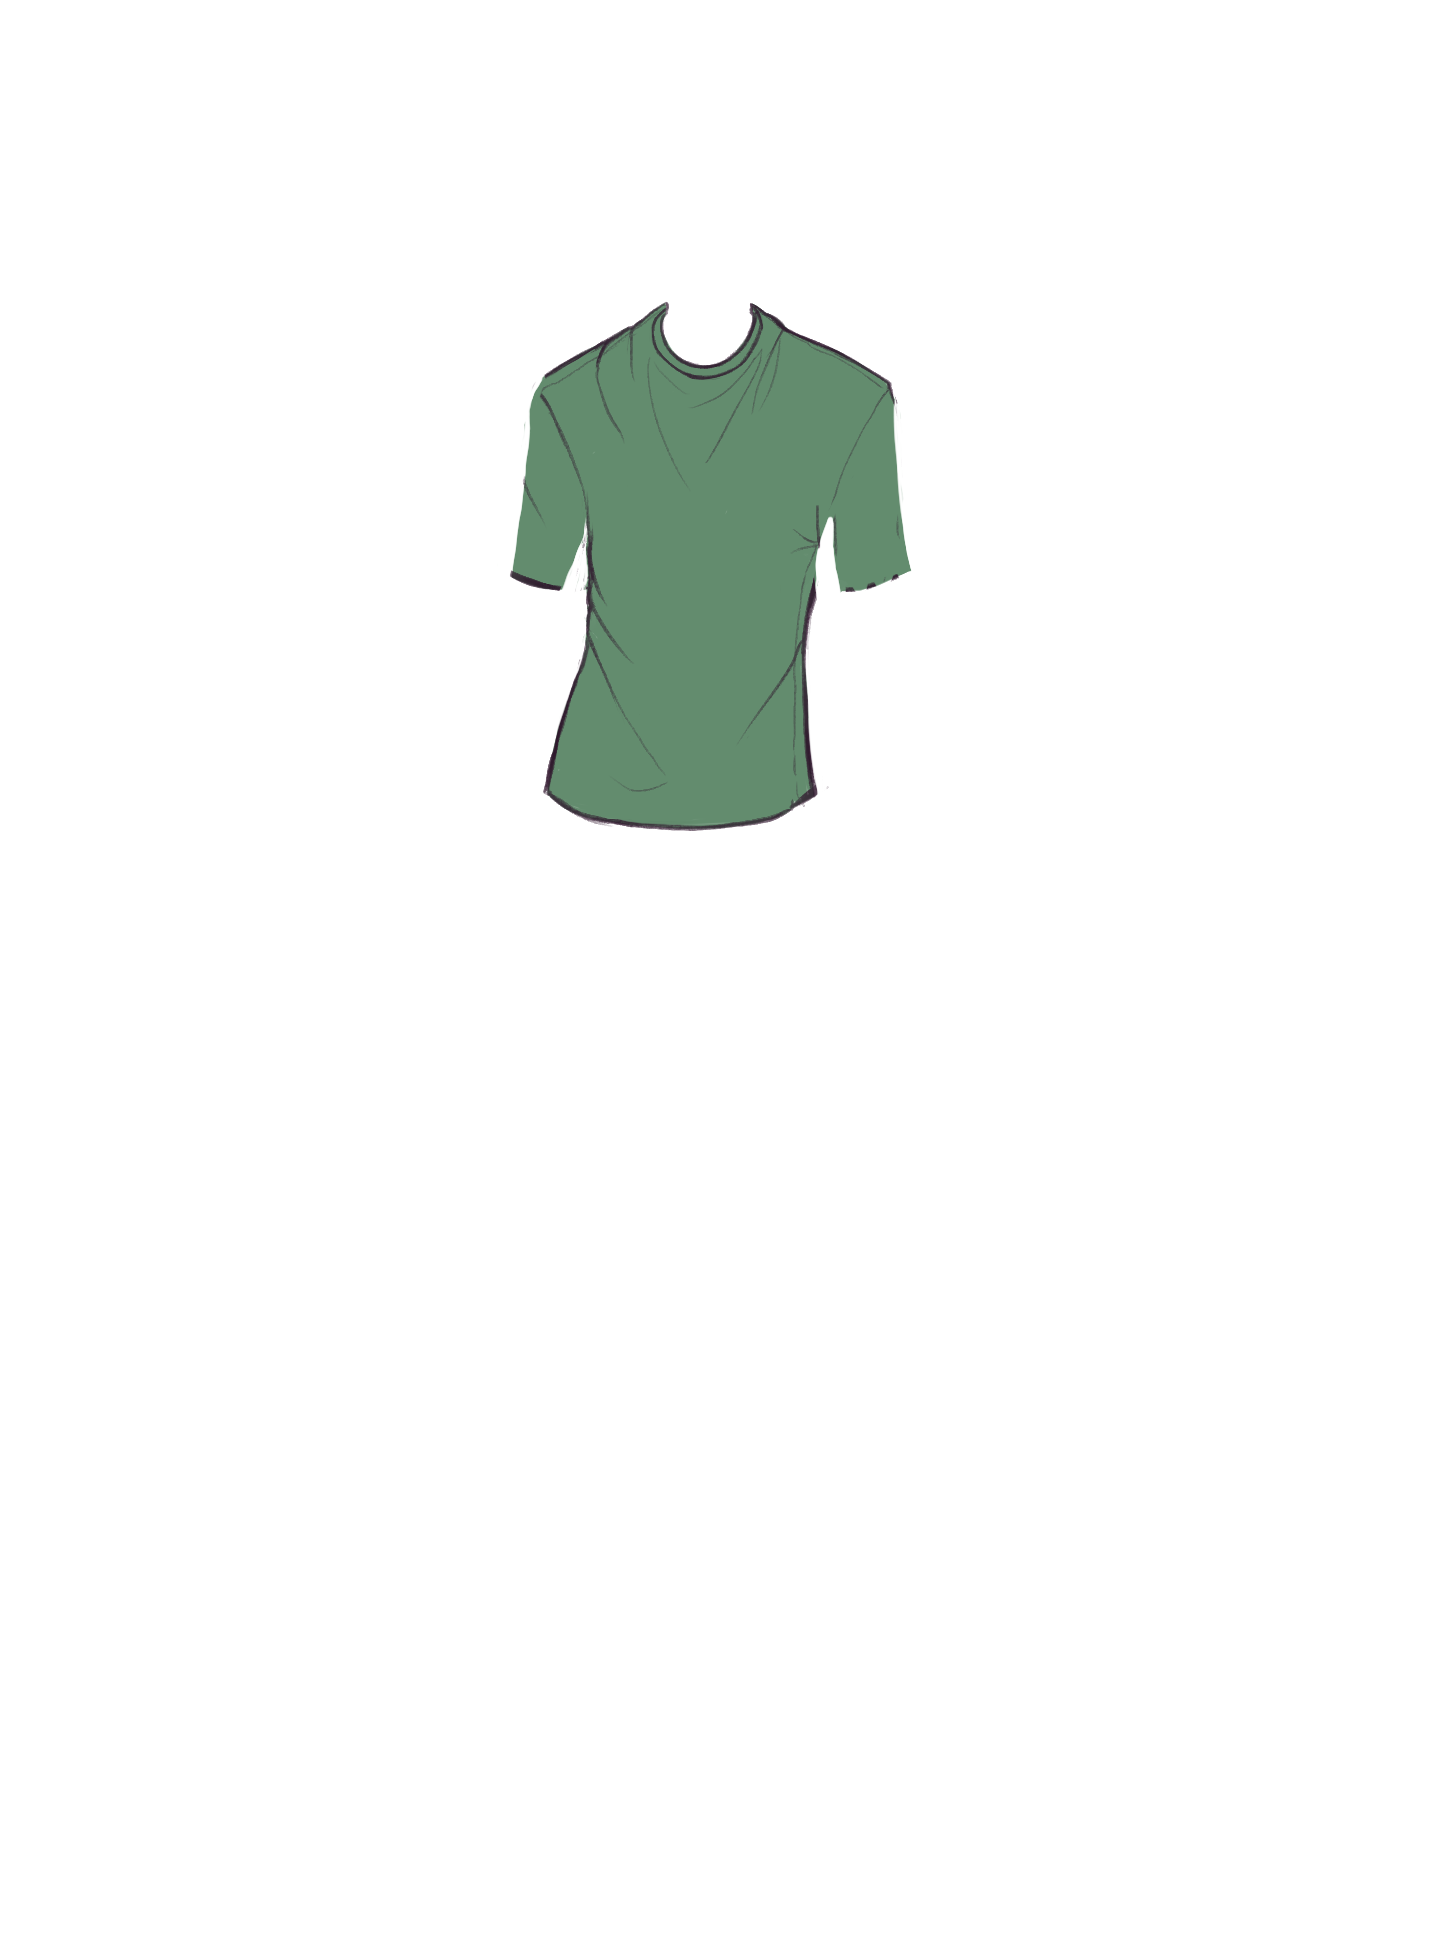
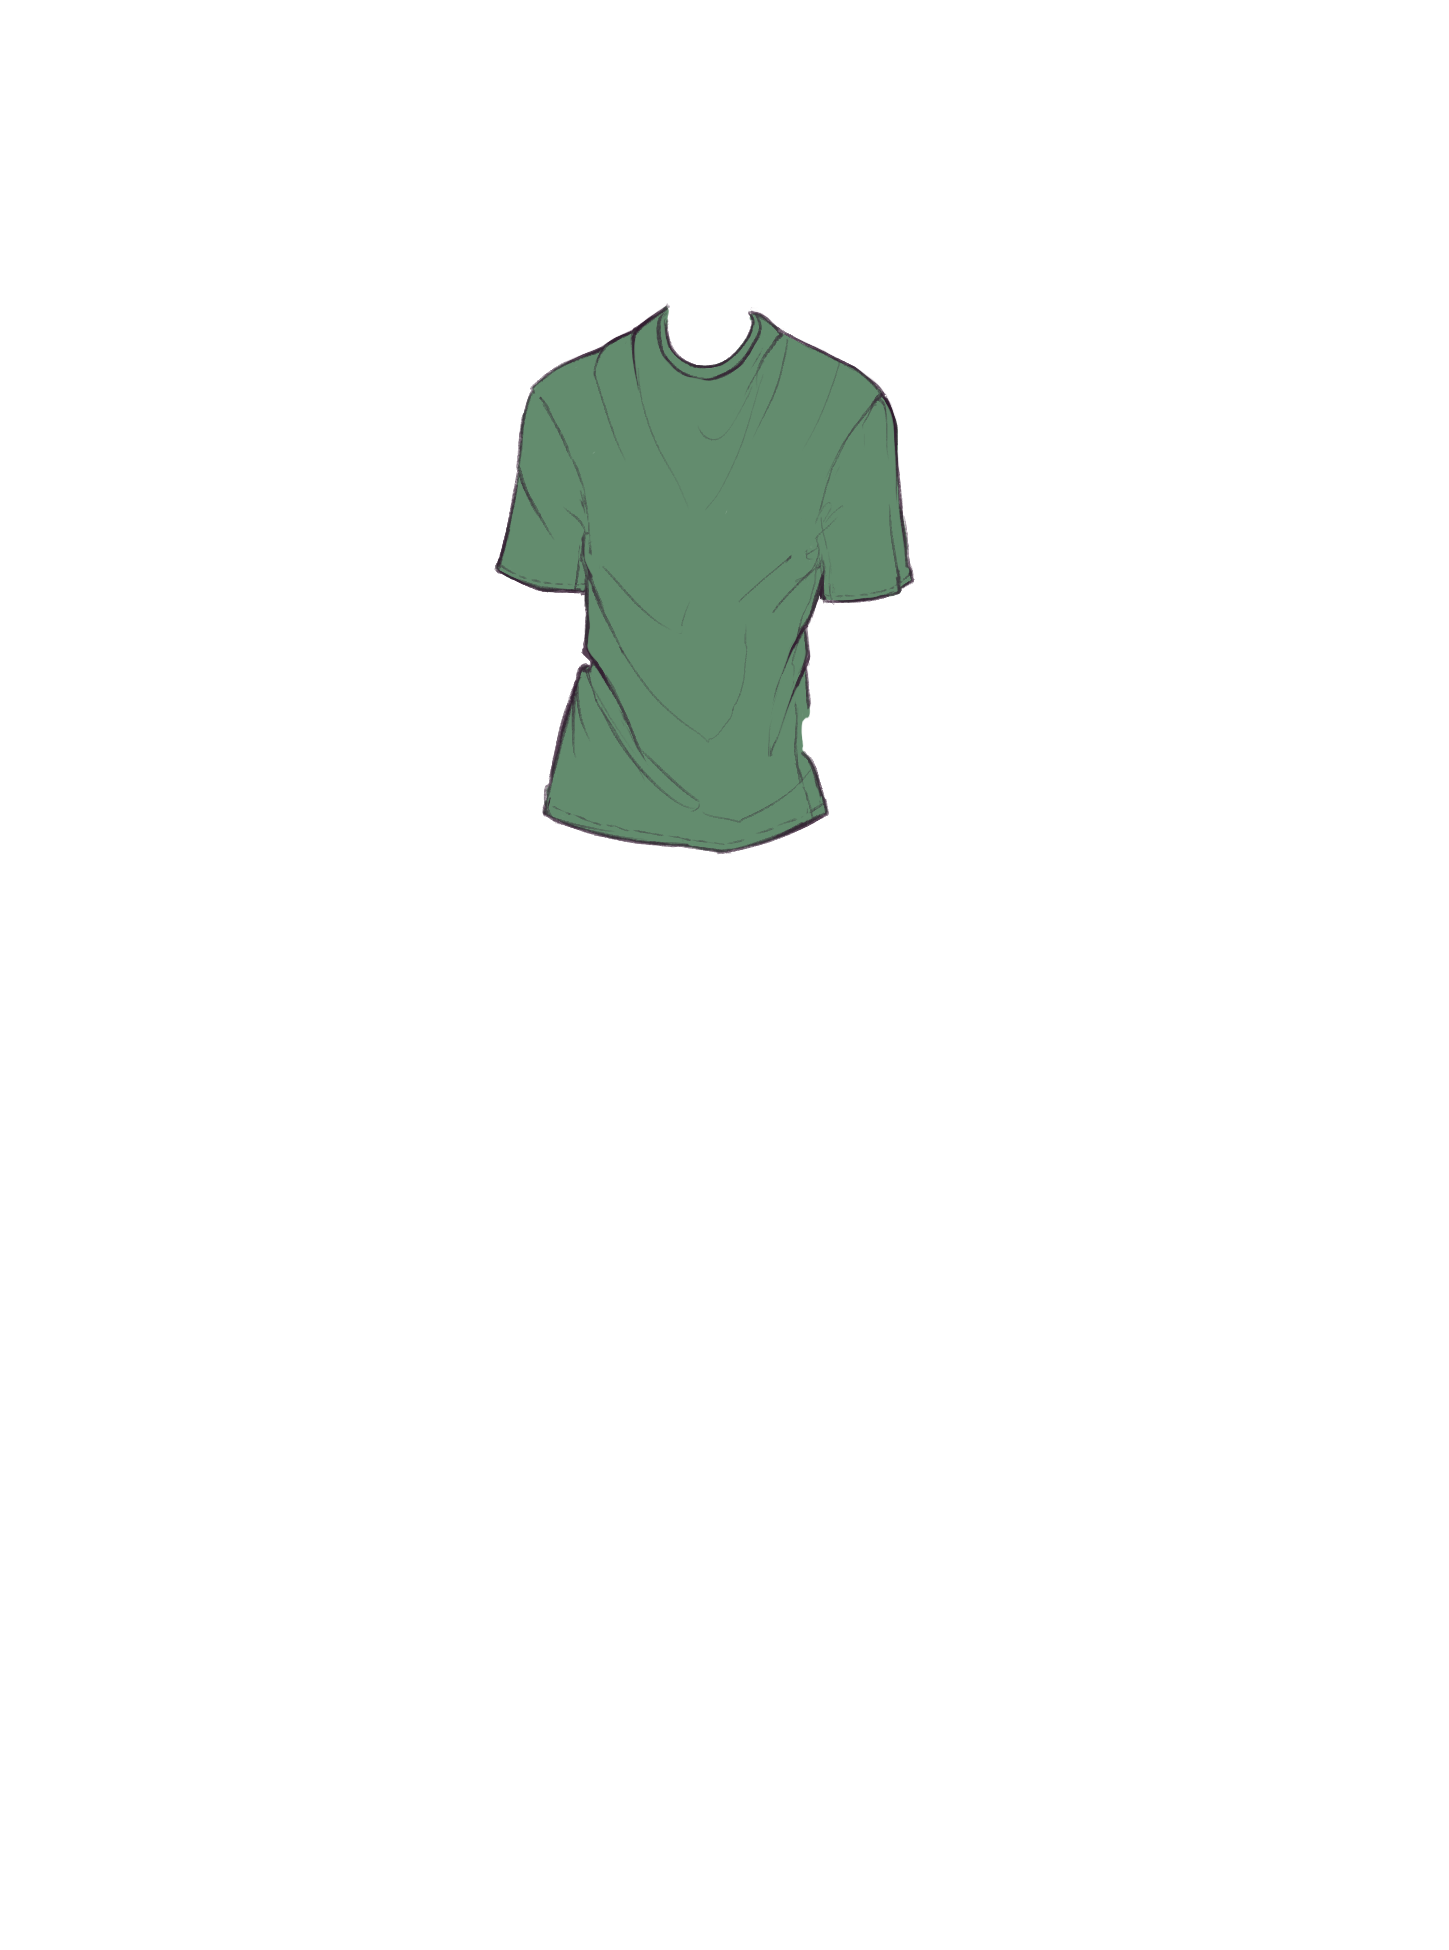
tshirt fix

diff --git a/src/config/characters/bill.ts b/src/config/characters/bill.ts
@@ -179,7 +179,10 @@ export const BillWeasley: CharacterConfig = {
             src: 'assets/characters/bill/clothes/tops/tshirt.PNG',
             icon: 'assets/characters/bill/icons/tshirt.png',
             defaultZIndex: 65,
-            isRemovable: true
+            isRemovable: true,
+            variants: {
+                jacket: 'assets/characters/bill/clothes/tops/tshirt_jacket.PNG'
+            }
         },
         {
             id: 'earring1',
